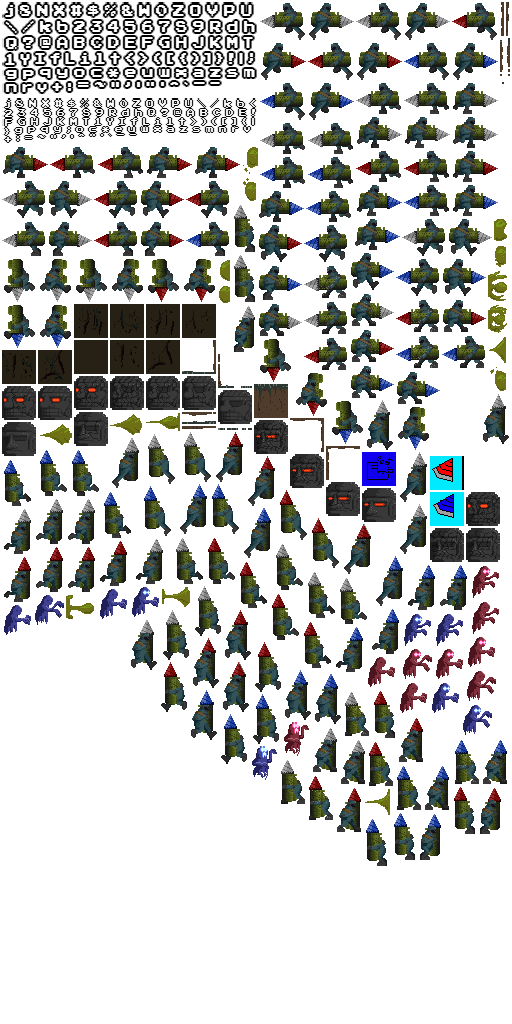
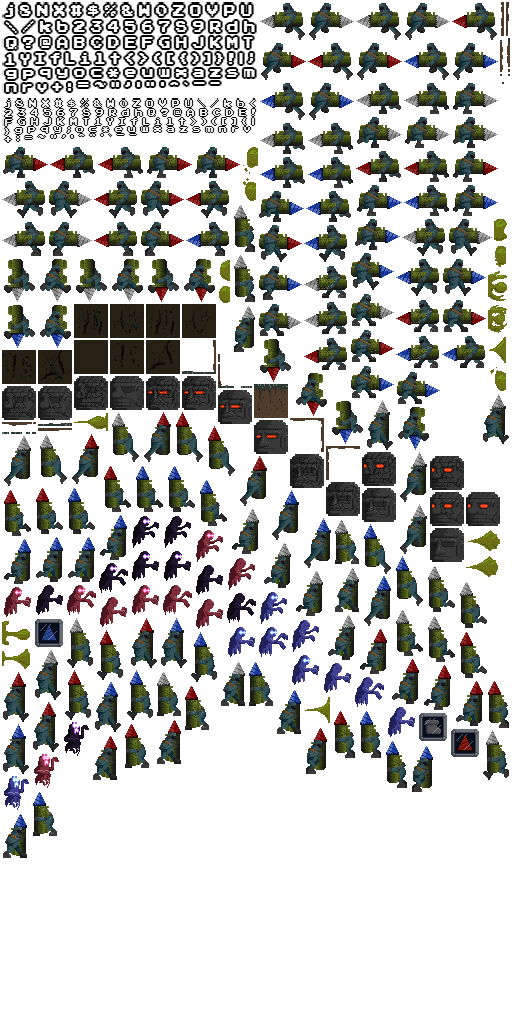
black ghost

Changed region(s): [[0.0, 0.375, 1.0, 0.8438]]

diff --git a/Assets/Scripts/GameObjects/Wall.cs b/Assets/Scripts/GameObjects/Wall.cs
@@ -1,0 +1,17 @@
+using System;
+using System.Collections.Generic;
+using System.Linq;
+using System.Text;
+
+public class Wall : BaseGameObject
+{
+    FAnimatedSprite sprite;
+    public Wall(int level)
+    {
+        sprite = new FAnimatedSprite("door" + level.ToString());
+        sprite.addAnimation(new FAnimation("normal", new int[] { 1 }, 100));
+        sprite.addAnimation(new FAnimation("broken", new int[] { 2 }, 100));
+
+    }
+}
+

diff --git a/Assets/Scripts/World.cs b/Assets/Scripts/World.cs
@@ -177,6 +177,9 @@ public class World : FContainer
                     case 8:
                         addDrill(node, 3);
                         break;
+                    case 11:
+                        addSpaceGhost(node, 3);
+                        break;
                 }
             }
             else
